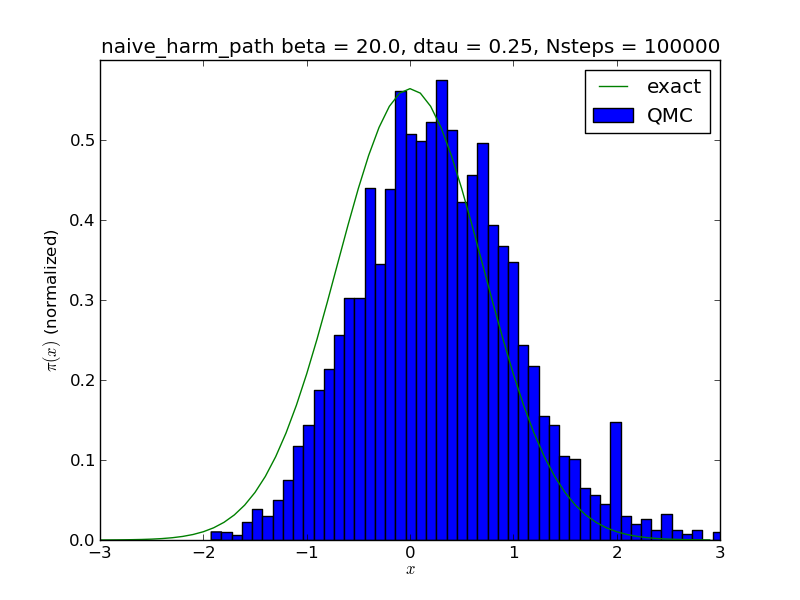
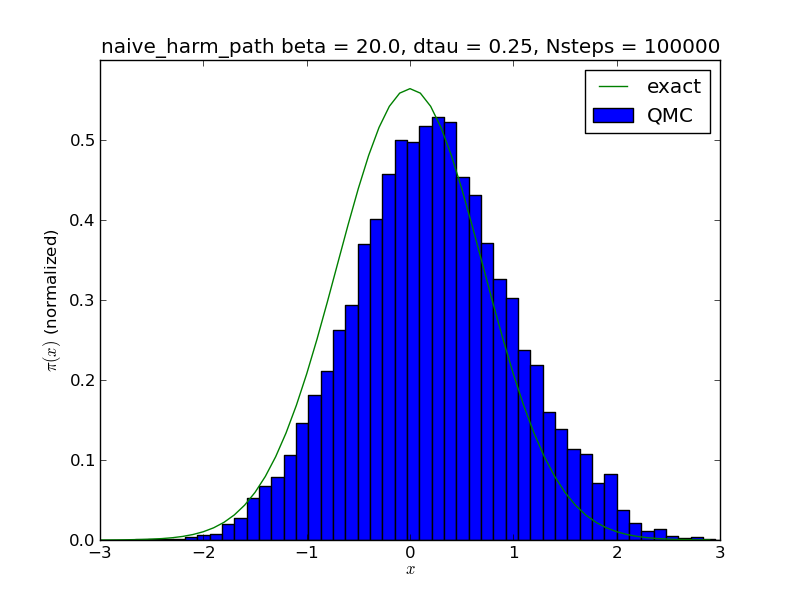
more

Changed region(s): [[0.2188, 0.12, 0.9062, 0.9]]

diff --git a/week6/homework/B2.py b/week6/homework/B2.py
@@ -1,0 +1,64 @@
+import math, random, pylab
+
+# free density matrix calculation
+def rho_free(x, y, beta):
+    return math.exp(-(x - y) ** 2 / (2.0 * beta))
+
+def levy_harmonic_path(xstart, xend, dtau, N):
+    x = [xstart]
+    for k in range(1, N):
+        dtau_prime = (N - k) * dtau
+        Ups1 = 1.0 / math.tanh(dtau) + \
+               1.0 / math.tanh(dtau_prime)
+        Ups2 = x[k - 1] / math.sinh(dtau) + \
+               xend / math.sinh(dtau_prime)
+        x.append(random.gauss(Ups2 / Ups1, \
+               1.0 / math.sqrt(Ups1)))
+    return x
+
+beta = 20.0
+N = 80
+dtau = beta / N
+delta = 1.7
+n_steps = 100000
+x = [2.0] * N
+data = []
+acc = 0 # for the acceptance rate
+for step in range(n_steps):
+
+    x = levy_harmonic_path(x[0], x[0], beta / N, N)
+    x = x[(N / 2):] + x[:(N / 2)]
+
+#    k = random.randint(0, N - 1)
+#    knext, kprev = (k + 1) % N, (k - 1) % N
+#    x_new = x[k] + random.uniform(-delta, delta)
+
+    # weighting calculation as in lecture
+#    old_weight  = (rho_free(x[knext], x[k], dtau) *
+#                   rho_free(x[k], x[kprev], dtau) *
+#                   math.exp(-0.5 * dtau * x[k] ** 2))
+#    new_weight  = (rho_free(x[knext], x_new, dtau) *
+#                   rho_free(x_new, x[kprev], dtau) *
+#                   math.exp(-0.5 * dtau * x_new ** 2))
+#    if random.uniform(0.0, 1.0) < new_weight / old_weight:
+#        x[k] = x_new
+#        acc += 1
+    if step % 1 == 0:
+        k = random.randint(0, N - 1)
+        data.append(x[k])
+pylab.hist(data, bins=50, normed=True, label='QMC')
+x_values = [0.1 * a for a in range (-30, 30)]
+y_values = [math.sqrt(math.tanh(beta / 2.0)) / math.sqrt(math.pi) * \
+                  math.exp( - xx **2 * math.tanh( beta / 2.0)) for xx in x_values]
+
+print(float(acc) / n_steps)
+
+pylab.plot(x_values, y_values, label='exact')
+pylab.xlabel('$x$')
+pylab.ylabel('$\\pi(x)$ (normalized)')
+pylab.axis([-3.0, 3.0, 0.0, 0.6])
+pylab.legend()
+ProgType = 'levy_harm_path'
+pylab.title(ProgType + ' beta = ' + str(beta) + ', dtau = ' + str(dtau) + ', Nsteps = '+ str(n_steps))
+pylab.savefig(ProgType + str(beta) + '.png')
+pylab.show()

diff --git a/week6/homework/B1.py b/week6/homework/B1.py
@@ -7,7 +7,7 @@ def rho_free(x, y, beta):
 beta = 20.0
 N = 80
 dtau = beta / N
-delta = 5.0
+delta = 2.0
 n_steps = 100000
 x = [2.0] * N
 data = []
@@ -27,7 +27,7 @@ for step in range(n_steps):
     if random.uniform(0.0, 1.0) < new_weight / old_weight:
         x[k] = x_new
         acc += 1
-    if step % 20 == 0:
+    if step % 1 == 0:
         k = random.randint(0, N - 1)
         data.append(x[k])
 pylab.hist(data, bins=50, normed=True, label='QMC')
